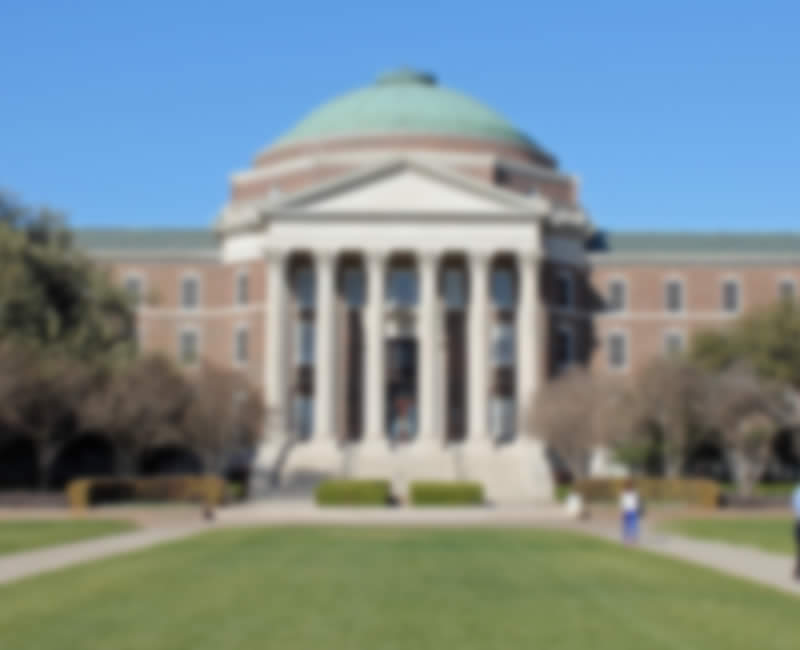
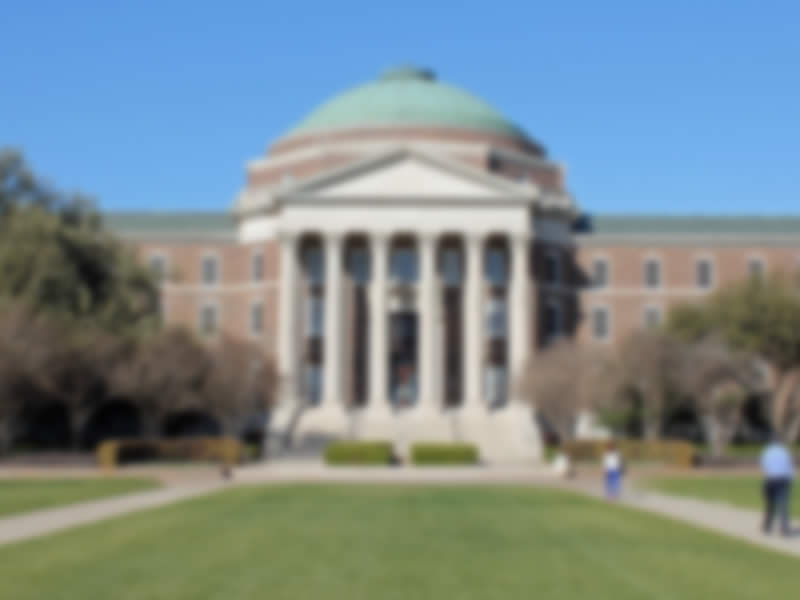
bugz

diff --git a/src/StudySauce/Bundle/Resources/public/css/sauce.css b/src/StudySauce/Bundle/Resources/public/css/sauce.css
@@ -244,14 +244,38 @@ input[type="button"].more:focus
     border-color: #004477;
 }
 
+.net-promoter
+{
+    max-width: 300px;
+    margin:0 auto;
+}
+
 .net-promoter label
 {
     display:inline-block;
     width: 9%;
     margin:0 -2px;
-    padding: 30px 2px 10px 2px;
+    padding: 0 2px;
     position:relative;
     text-align: center;
+}
+
+.net-promoter + header label
+{
+    display:inline-block;
+    width:33.33%;
+    margin:0 -2px;
+    padding: 0 2px;
+}
+
+.net-promoter + header label:nth-child(2)
+{
+    text-align: center;
+}
+
+.net-promoter + header label:nth-child(3)
+{
+    text-align: right;
 }
 
 .more.parents

diff --git a/src/StudySauce/Bundle/Resources/public/css/video.css b/src/StudySauce/Bundle/Resources/public/css/video.css
@@ -2,7 +2,7 @@
     text-align: center;
     position:relative;
     overflow:hidden;
-    background: url(../images/SMU_blur.jpg) fixed no-repeat 50% -50px #999999;
+    background: url(../images/SMU_blur.jpg) fixed no-repeat 50% 0 #999999;
 }
 
 .landing-home .video > img {
@@ -100,6 +100,7 @@
 
     .landing-home .video {
         background-image: url(../images/SMU_blur_small.jpg);
+        background-position: 50% 0 !important;
     }
 
     .landing-home .video .slides .highlighted-link

diff --git a/src/Course1/Bundle/Resources/public/css/course1.css b/src/Course1/Bundle/Resources/public/css/course1.css
@@ -336,24 +336,6 @@
     text-align: center !important;
 }
 
-#course1_upgrade-step4 header label
-{
-    display:inline-block;
-    width:33.33%;
-    margin:0 -2px;
-    padding: 0 2px;
-}
-
-#course1_upgrade-step4 header label:nth-child(2)
-{
-    text-align: center;
-}
-
-#course1_upgrade-step4 header label:nth-child(3)
-{
-    text-align: right;
-}
-
 @media all and (max-width:1000px)
 {
 

diff --git a/src/Course3/Bundle/Resources/views/SpacedRepetition/investment.html.php b/src/Course3/Bundle/Resources/views/SpacedRepetition/investment.html.php
@@ -15,6 +15,7 @@ $view->extend('Course3Bundle:Shared:layout.html.php');
             <p>We hope you enjoyed the course. You now know how to study effectively. Remember to use your study tools and feel free to revisit some of the videos from time to time.</p>
             <p>Please let us know what you thought of the course. We are particularly interested in your feedback and your suggestions for new videos and study tools that you would like to see us make.</p>
             <label class="input"><textarea name="investment-feedback"><?php print $course->getFeedback(); ?></textarea></label>
+            <p>&nbsp;</p>
             <p>How likely are you to recommend Study Sauce to a friend?</p>
             <div class="net-promoter">
                 <label class="radio"><input type="radio" name="investment-net-promoter" value="0" <?php print ($course->getNetPromoter() === 0 ? 'checked="checked"' : ''); ?>/><i></i><br/><span>0</span></label>
@@ -29,6 +30,11 @@ $view->extend('Course3Bundle:Shared:layout.html.php');
                 <label class="radio"><input type="radio" name="investment-net-promoter" value="9" <?php print ($course->getNetPromoter() == 9 ? 'checked="checked"' : ''); ?>/><i></i><br/><span>9</span></label>
                 <label class="radio"><input type="radio" name="investment-net-promoter" value="10" <?php print ($course->getNetPromoter() == 10 ? 'checked="checked"' : ''); ?>/><i></i><br/><span>10</span></label>
             </div>
+            <header>
+                <label>Not likely at all</label>
+                <label>Neutral</label>
+                <label>Extremely likely</label>
+            </header>
         </div>
         <div class="grid_6">
             <?php foreach ($view['assetic']->image(['@StudySauceBundle/Resources/public/images/complication_compressed.png'], [], ['output' => 'bundles/studysauce/images/*']) as $url): ?>

diff --git a/src/StudySauce/Bundle/Controller/PlanController.php b/src/StudySauce/Bundle/Controller/PlanController.php
@@ -1678,7 +1678,7 @@ class PlanController extends Controller
         }
         $orm->flush();
 
-        return $this->forward('StudySauceBundle:Plan:index', ['_format' => 'tab', '_week' => $event->getStart()->format('Y-m-d')]);
+        return $this->forward('StudySauceBundle:Plan:index', ['_format' => 'tab']);
     }
 
     /**
